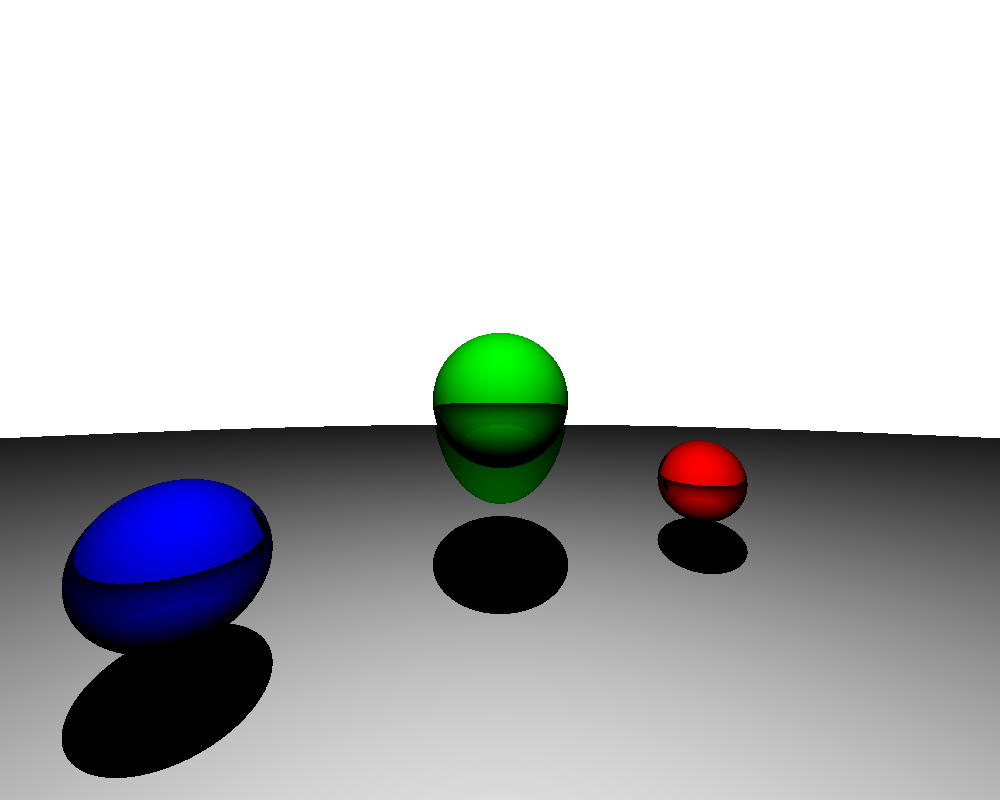
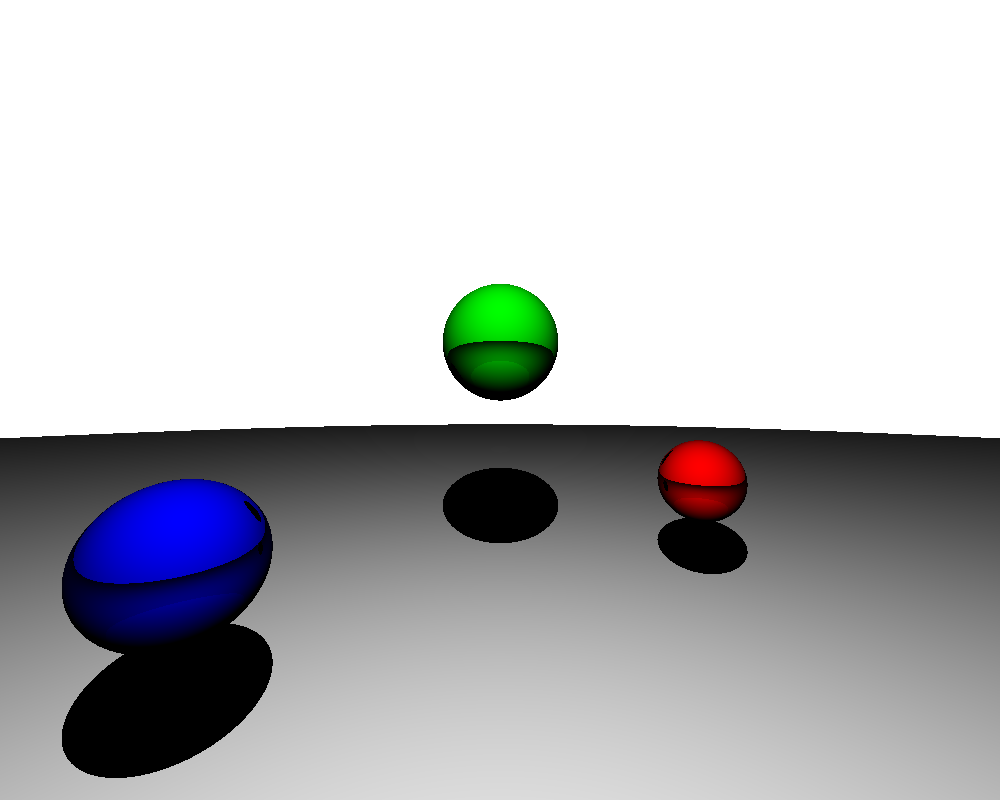
Reflections working.

Changed region(s): [[0.434, 0.3438, 0.589, 0.7812], [0.248, 0.625, 0.279, 0.6562]]

diff --git a/src/scene.rs b/src/scene.rs
@@ -70,13 +70,17 @@ impl Scene {
                         if i == 0 && check_is_in_shadow(&boundary_position, &self.objects, object_index, light_dot, &light_normal) { // Check if it is in shadow before continuing
                             color = Color::black();
                             break;
-                        }      
+                        }
 
                         // Blend color
                         color *= self.objects[object_index].get_color_ref();
                         color *= light_dot;
-
-                        ray.reflect(self.objects[object_index].get_normal(boundary_position));
+                        if self.objects[object_index].get_reflectance() == 0.0 { // stop reflecting
+                            break;
+                        } else {
+                            color *= self.objects[object_index].get_reflectance();
+                            ray.reflect(self.objects[object_index].get_normal(boundary_position));
+                        }
                     } else {    // Nothing to reflect off of
                         break;
                     }

diff --git a/src/objects.rs b/src/objects.rs
@@ -9,6 +9,9 @@ pub trait Object {
     fn get_normal(&self, point: Point3<f32>) -> Vector3<f32>;
     fn get_color_ref(&self) -> &Color;
     fn get_type_name(&self) -> &'static str;
+    fn get_reflectance(&self) -> f32 {
+        1.0
+    }
 }
 
 #[derive(Debug)]
@@ -66,6 +69,10 @@ impl Object for HorizontalPlane {
 
     fn get_type_name(&self) -> &'static str {
         "HorizontalPlane"
+    }
+
+    fn get_reflectance(&self) -> f32 {  // Don't want plane to be relfective
+        0.0
     }
 }
 

diff --git a/src/main.rs b/src/main.rs
@@ -23,7 +23,7 @@ impl MainState {
         let main_scene = Scene::new(DIMS.0, DIMS.1, Point3::new(0.0, 1.0, 0.0), 90.0,
             vec![
                 Box::new(Sphere {
-                    centre: Point3::new(0.0, 0.0, -6.0),        // 5 units away from camera
+                    centre: Point3::new(0.0, 1.0, -7.0),        // 5 units away from camera
                     radius: 1.0,
                     color: Color {
                         r: 0.0,
